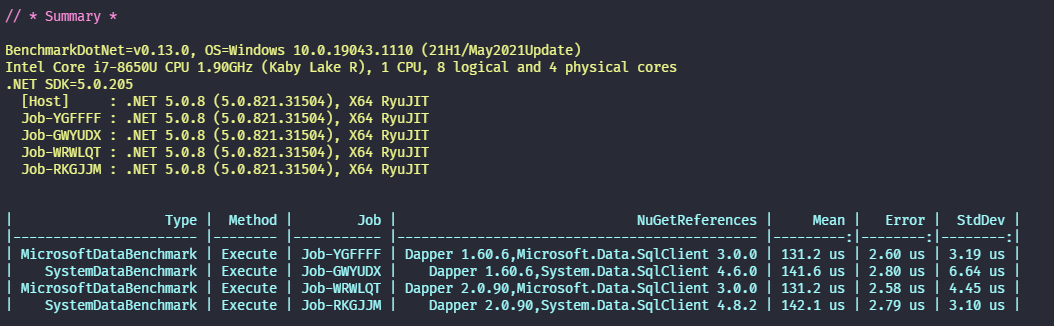
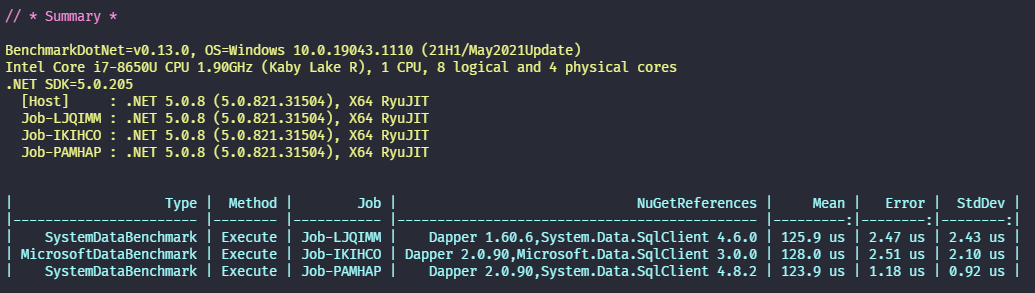
update to more realistic scenario

Changed region(s): [[0.0, 0.6451, 0.9894, 0.9522], [0.0, 0.1229, 0.6493, 0.5529], [0.0, 0.0307, 0.1237, 0.0922]]

diff --git a/content/blog/2021/07/benchmarking-different-versions-of-nuget-packages/index.md b/content/blog/2021/07/benchmarking-different-versions-of-nuget-packages/index.md
@@ -192,11 +192,6 @@ public class MicrosoftDataBenchmark : BaseBenchmark
     {
       AddJob(BaseJob.WithNuGet(new NuGetReferenceList() {
             new NuGetReference("Microsoft.Data.SqlClient", "3.0.0"),
-            new NuGetReference("Dapper", "1.60.6"),
-        }));
-
-      AddJob(BaseJob.WithNuGet(new NuGetReferenceList() {
-            new NuGetReference("Microsoft.Data.SqlClient", "3.0.0"),
             new NuGetReference("Dapper", "2.0.90"),
         }));
     }
@@ -213,7 +208,7 @@ We'll also need to install the new NuGet package:
 dotnet add package Microsoft.Data.SqlClient
 ```
 
-Running the benchmark now compares all four options:
+Running the benchmark now compares all three options (baseline, `System.Data` upgrade, `Microsoft.Data` upgrade):
 
 ![Microsoft Data and System Data benchmark results](./abstract-class-multiple-implementations.png)
 
